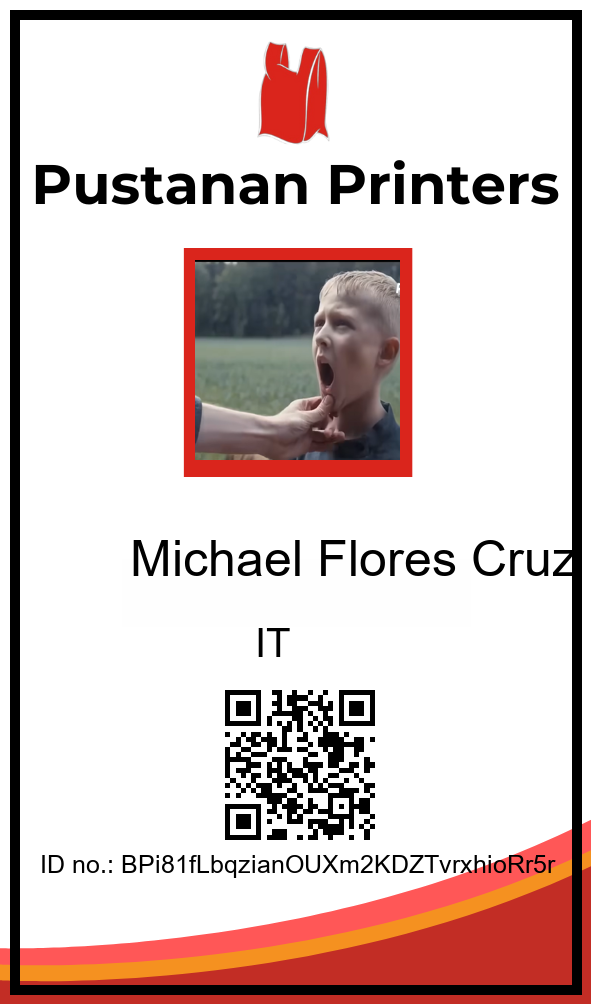
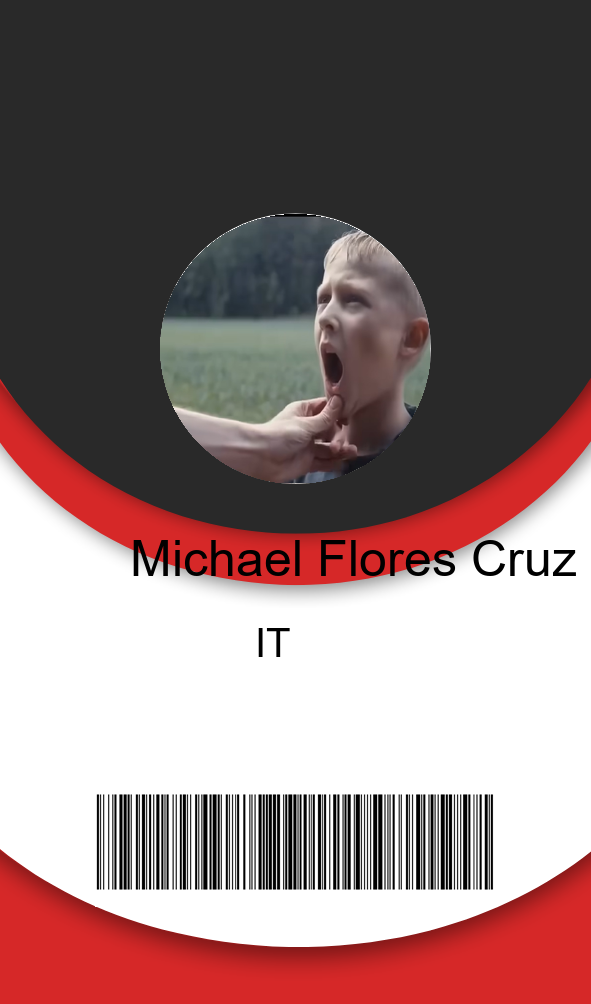
.

diff --git a/Server/generateEmployeeID.py b/Server/generateEmployeeID.py
@@ -9,6 +9,8 @@ from pydantic import BaseModel, Field, field_validator
 import requests
 from io import BytesIO
 from dotenv import load_dotenv
+from barcode import Code128
+from barcode.writer import ImageWriter
 
 load_dotenv()
 
@@ -65,7 +67,7 @@ class EmployeeIDCard(BaseModel):
         background_path = "server/IDassets/"
 
         if company == "PPC":
-            background_path += "ppcIDfront.png"
+            background_path += "ppcIDFront.png"
         if company == "BB":
             background_path += "bbIDfront.png"
         if company == "PPB":
@@ -89,14 +91,14 @@ class EmployeeIDCard(BaseModel):
         role_font = ImageFont.truetype(font_path, size=40)
         ref_id_font = ImageFont.truetype(font_path, size=30)
 
-        border_color = (0, 0, 0)
-        border_width = 10
-        draw.rectangle(
-            [(border_width, border_width),
-             (card_width - border_width, card_height - border_width)],
-            outline=border_color,
-            width=border_width,
-        )
+        # border_color = (0, 0, 0)
+        # border_width = 10
+        # draw.rectangle(
+        #     [(border_width, border_width),
+        #      (card_width - border_width, card_height - border_width)],
+        #     outline=border_color,
+        #     width=border_width,
+        # )
 
         if photo_path:
             try:
@@ -106,8 +108,17 @@ class EmployeeIDCard(BaseModel):
                     photo = Image.open(BytesIO(response.content)).resize(
                         (205, 200))
                 else:
-                    photo = Image.open(photo_path).resize((205, 200))
-                background.paste(photo, (195, 260))
+                    photo = Image.open(photo_path).resize((270, 269))
+
+                photo = photo.convert("RGBA")
+                circle_mask = Image.new("L", (photo.width, photo.height), 0)
+                draw_circle = ImageDraw.Draw(circle_mask)
+                draw_circle.ellipse((0, 0, photo.width, photo.height), fill=255)
+                photo = Image.composite(photo, Image.new("RGB", photo.size, "white"), circle_mask)
+
+                background.paste(photo, (160, 214), circle_mask)
+
+                # background.paste(photo, (195, 260))
             except Exception as e:
                 print(f"Error loading photo: {e}")
 
@@ -136,11 +147,12 @@ class EmployeeIDCard(BaseModel):
             y_text += role_font.size + 5
         # draw.text((255, 620), f"{type_of_employee}", fill="black", font=role_font)
 
-        ref_id_font = ImageFont.truetype(font_path, size=25)
-        draw.text((40, 850),
-                  f"ID no.: {ref_id}",
-                  fill="black",
-                  font=ref_id_font)
+        # ref_id_font = ImageFont.truetype(font_path, size=25)
+        # draw.text((40, 850),
+        #           f"ID no.: {ref_id}",
+        #           fill="black",
+        #           font=ref_id_font)
+
         # draw.text((180, 140), address, fill="black", font=ref_id_font)
         # address_lines = textwrap.wrap(address, width=30)
         # y_text = 170
@@ -151,12 +163,27 @@ class EmployeeIDCard(BaseModel):
         # draw.text((300, 130), f"Date Joined: {dateJoined}", fill="black", font=ref_id_font)
         # draw.text((50, 300), f"{company}", fill="black", font=ref_id_font)
 
-        qr = qrcode.QRCode(box_size=4, border=2)
-        qr.add_data(qr_data)
-        qr.make(fit=True)
-        qr_code_img = qr.make_image(fill="black", back_color="white").resize(
-            (170, 170))
-        background.paste(qr_code_img, (215, 680))
+        # qr = qrcode.QRCode(box_size=4, border=2)
+        # qr.add_data(qr_data)
+        # qr.make(fit=True)
+        # qr_code_img = qr.make_image(fill="black", back_color="white").resize(
+        #     (170, 170))
+        # background.paste(qr_code_img, (215, 680))
+
+        barcode = Code128(ref_id, writer=ImageWriter())
+        options = {
+            'module_width': 0.5,
+            'module_height': 5.0,
+            'quiet_zone': 1.0,
+            'font_size': 0,
+            'text_distance': 0.0,
+            'background': 'white',
+            'foreground': 'black',
+            'write_text': False
+        }
+        barcode.save("Server/IDBarcodes/"+f"{name}", options=options)
+        barcode_img = Image.open(f"Server/IDBarcodes/{name}.png").resize((400, 130))
+        background.paste(barcode_img, (95, 777))
 
         directory = 'Server/EmployeeIDs/'
         if not os.path.exists(directory):
@@ -168,34 +195,34 @@ class EmployeeIDCard(BaseModel):
         background.save(output_path)
         print(f"ID card saved to {output_path}")
 
-        if not _apps:
-            cred = credentials.Certificate(
-                "Server/pustananemployeeprofile-firebase-adminsdk-47jwz-bc5daaacc7.json"
-            )
-            initialize_app(cred, {
-                "storageBucket":
-                "pustananemployeeprofile.firebasestorage.app"
-            })
+        # if not _apps:
+        #     cred = credentials.Certificate(
+        #         "Server/pustananemployeeprofile-firebase-adminsdk-47jwz-bc5daaacc7.json"
+        #     )
+        #     initialize_app(cred, {
+        #         "storageBucket":
+        #         "pustananemployeeprofile.firebasestorage.app"
+        #     })
 
-        bucket = storage.bucket()
-        blob = bucket.blob(
-            f"EmployeeIDs/{self.firstName+self.lastName}_id_card.png")
-        blob.upload_from_filename(output_path)
-        blob.make_public()
+        # bucket = storage.bucket()
+        # blob = bucket.blob(
+        #     f"EmployeeIDs/{self.firstName+self.lastName}_id_card.png")
+        # blob.upload_from_filename(output_path)
+        # blob.make_public()
 
-        download_url = blob.public_url
-        print(f"ID card uploaded to Firebase Storage" + download_url)
+        # download_url = blob.public_url
+        # print(f"ID card uploaded to Firebase Storage" + download_url)
 
-        to_return = {
-            "_id": self.id,
-            "name": self.firstName + " " + self.lastName,
-            "companyRole": self.companyRole,
-            "IDCardURL": download_url,
-        }
+        # to_return = {
+        #     "_id": self.id,
+        #     "name": self.firstName + " " + self.lastName,
+        #     "companyRole": self.companyRole,
+        #     "IDCardURL": download_url,
+        # }
 
-        print(to_return)
+        # print(to_return)
 
-        return to_return
+        # return to_return
 
         # back side of ID card
 
@@ -226,22 +253,23 @@ class EmployeeIDCard(BaseModel):
         # print(f"Back side of ID card saved to {back_output_path}")
 
 
-# employee = {
-#     "_id": 'BPi81fLbqzianOUXm2KDZTvrxhioRr5r',
-#     "name": "Michael Flores",
-#     "address": "123 Main Street, Cebu City, Philippines",
-#     "phoneNumber": "+63 912 345 6789",
-#     "photoOfPerson": "server/test_assets/minor.png",
-#     "resumePhotosList": ["resume_page1.jpg", "resume_page2.jpg"],
-#     "biodataPhotosList": ["biodata_page1.jpg"],
-#     "email": "michael.flores@example.com",
-#     "dateJoined": datetime(2024, 1, 15).date(),
-#     "company": "PPC",
-#     "isRegular": False,
-#     "companyRole": "IT",
-#     "isOJT": True,
-#     "dailyWage": 800.50,
-#     "_version": 1,
-# }
+employee = {
+    "_id": 'BPi81fLbqzianOUXm2KDZTvrxhioRr5r',
+    "firstName": "Michael Flores",
+    "lastName": "Cruz",
+    "address": "123 Main Street, Cebu City, Philippines",
+    "phoneNumber": "+63 912 345 6789",
+    "photoOfPerson": "server/test_assets/minor.png",
+    "resumePhotosList": ["resume_page1.jpg", "resume_page2.jpg"],
+    "biodataPhotosList": ["biodata_page1.jpg"],
+    "email": "michael.flores@example.com",
+    "dateJoined": datetime(2024, 1, 15).date(),
+    "company": "PPC",
+    "isRegular": False,
+    "companyRole": "IT",
+    "isOJT": True,
+    "dailyWage": 800.50,
+    "_version": 1,
+}
 
-# EmployeeIDCard(**employee).generate_id_card()
+EmployeeIDCard(**employee).generate_id_card()
